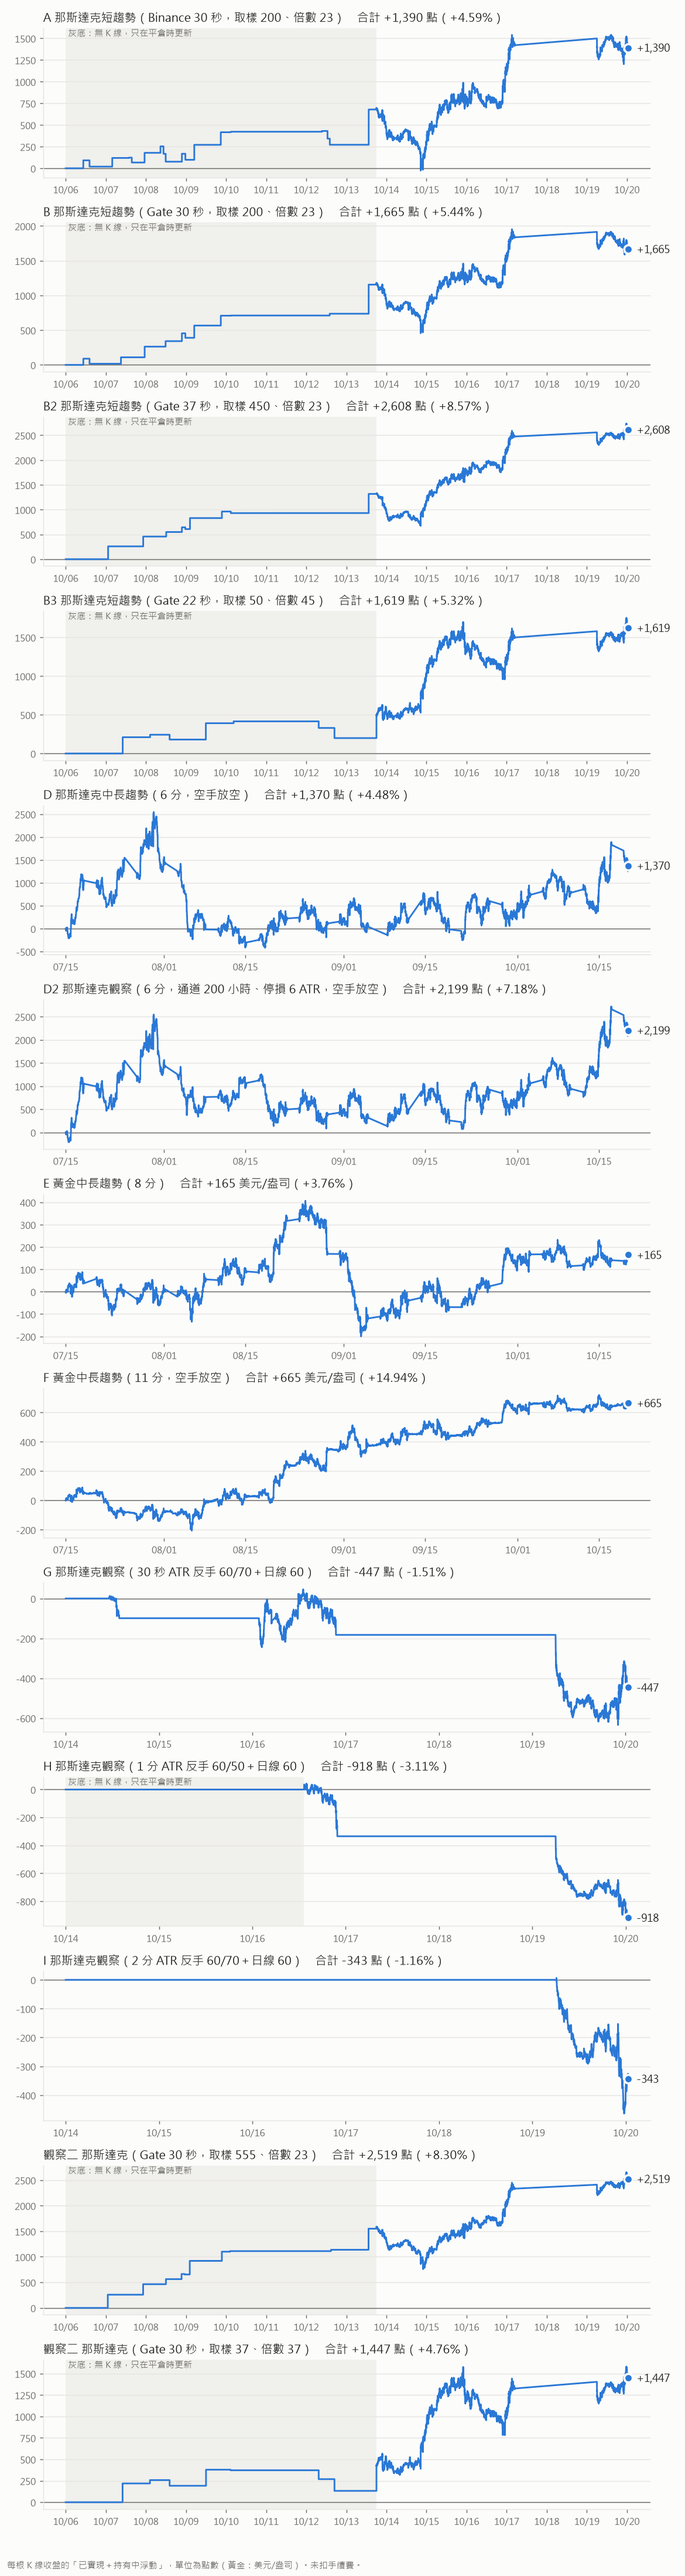
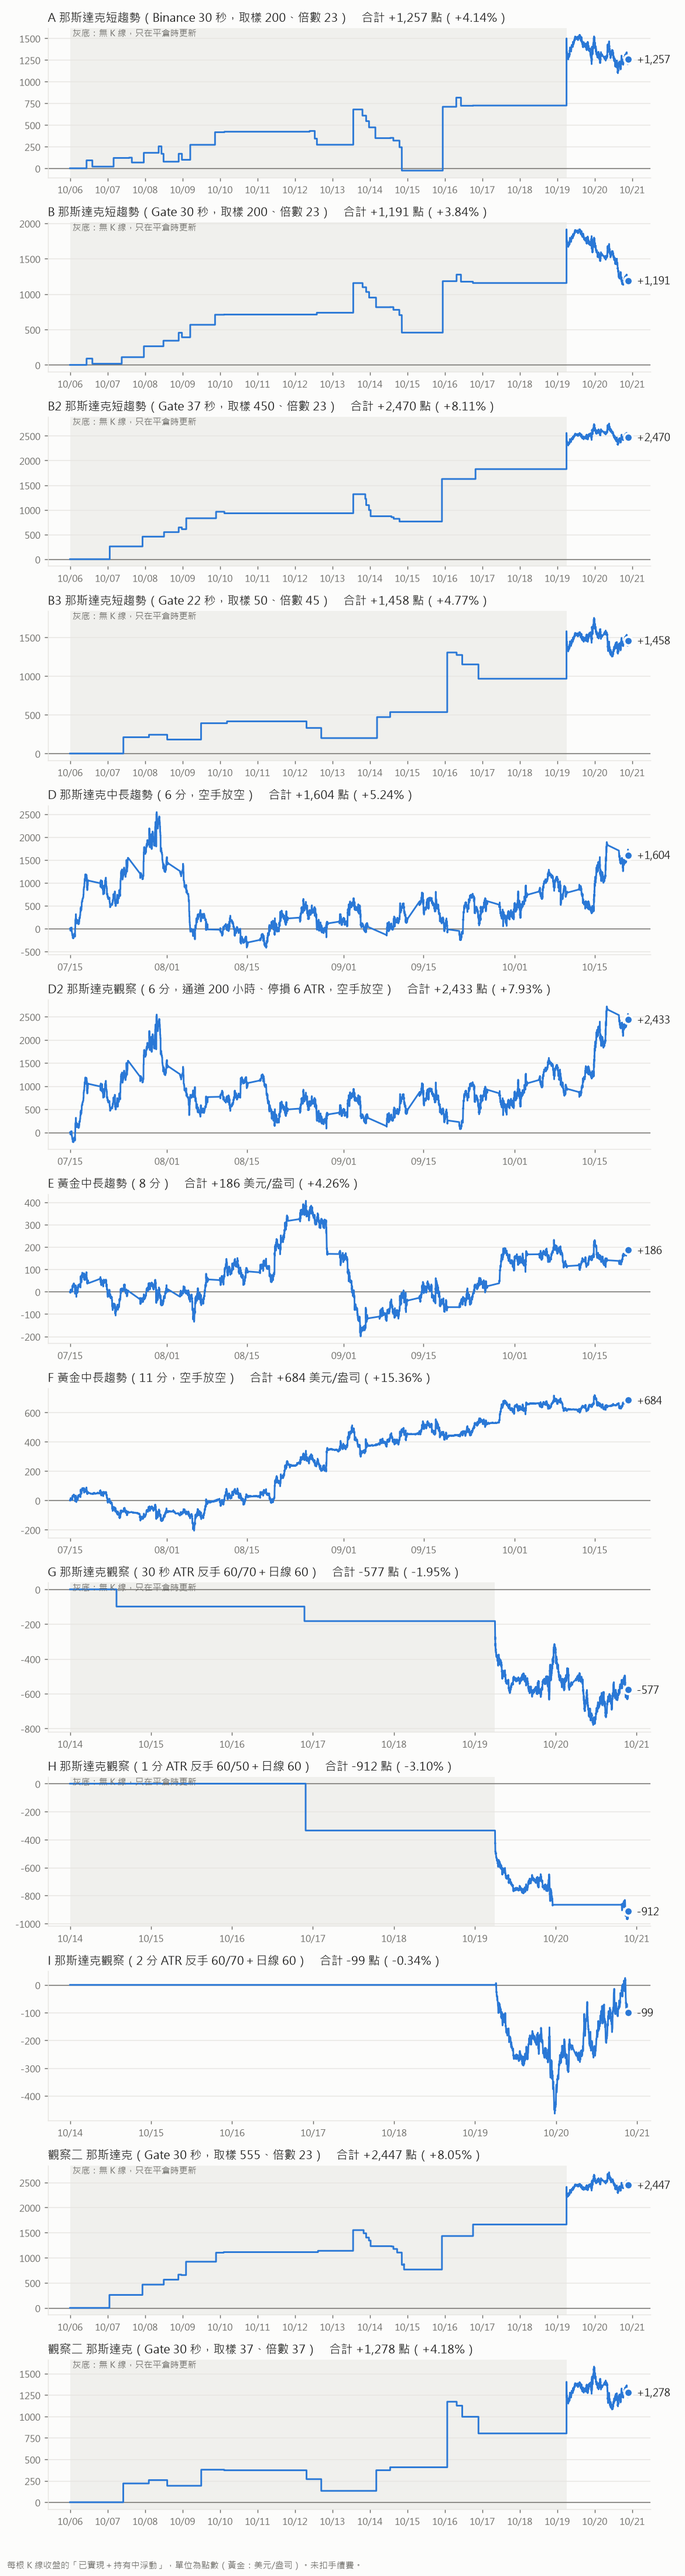
實際紀錄更新：新增 10/20 凌晨至下午共 8 筆進出紀錄，更新績效曲線、紀錄狀態與組別績效總表（新增）

diff --git a/實際紀錄/組別績效總表.html b/實際紀錄/組別績效總表.html
@@ -1,0 +1,120 @@
+<!doctype html>
+<html lang="zh-Hant">
+<head>
+<meta charset="utf-8">
+<meta name="viewport" content="width=device-width, initial-scale=1">
+<title>組別績效總表</title>
+<style>
+  :root { --fg:#111; --muted:#555; --line:#bbb; --bg:#fff; --pass:#e8f5e9; --fail:#fdecea; }
+  @media (prefers-color-scheme: dark) {
+    :root:not([data-theme="light"]) { --fg:#eee; --muted:#aaa; --line:#555; --bg:#161616; --pass:#1d3a24; --fail:#3d2020; }
+  }
+  :root[data-theme="dark"] { --fg:#eee; --muted:#aaa; --line:#555; --bg:#161616; --pass:#1d3a24; --fail:#3d2020; }
+  body { background: var(--bg); color: var(--fg); font-family: "Microsoft JhengHei", sans-serif; margin: 16px; line-height: 1.5; }
+  h1 { font-size: 20px; margin: 0 0 4px; }
+  h2 { font-size: 16px; margin: 20px 0 6px; }
+  .meta { color: var(--muted); font-size: 13px; margin-bottom: 12px; }
+  .wrap { overflow-x: auto; }
+  table { border-collapse: collapse; width: 100%; font-size: 13px; }
+  th, td { border: 1px solid var(--line); padding: 4px 6px; text-align: left; vertical-align: top; }
+  th { background: rgba(127,127,127,.15); white-space: nowrap; }
+  td.num { text-align: right; white-space: nowrap; }
+  tr.pass { background: var(--pass); }
+  tr.fail { background: var(--fail); }
+  .note { font-size: 13px; color: var(--muted); }
+  ol li { margin-bottom: 4px; }
+</style>
+</head>
+<body>
+
+<h1>組別績效總表</h1>
+<div class="meta">
+  資料時間：2026/10/20 21:16 前後（讀取自期貨趨勢頁「交易明細」，該頁開著會自動更新，數字會隨時間變動）<br>
+  實際紀錄程式：本次執行結束（結束代碼 0），進出紀錄檔沒有新增列，舊列未改動。
+</div>
+
+<h2>一、績效表（台幣組依合計排名，黃金只在黃金內排名）</h2>
+<div class="wrap">
+<table>
+  <thead>
+    <tr>
+      <th>組別</th>
+      <th>已平倉（賺／賠）</th>
+      <th>合計（已實現）</th>
+      <th>獲利因子</th>
+      <th>勝率</th>
+      <th>獲利名次</th>
+      <th>篩選名次</th>
+      <th>未通過原因／備註</th>
+    </tr>
+  </thead>
+  <tbody>
+    <tr class="pass"><td>那斯達克・B2（37 秒）</td><td class="num">23（13／10）</td><td class="num">+154,377 台幣</td><td class="num">4.529</td><td class="num">56.5%</td><td class="num">1</td><td class="num">1</td><td>通過</td></tr>
+    <tr class="pass"><td>那斯達克・觀察二 555/23</td><td class="num">25（14／11）</td><td class="num">+145,705 台幣</td><td class="num">3.574</td><td class="num">56.0%</td><td class="num">2</td><td class="num">2</td><td>通過（表格列數 24，見註 1）</td></tr>
+    <tr class="pass"><td>台指・觀察二 台指</td><td class="num">23（11／12）</td><td class="num">+26,851 台幣</td><td class="num">2.638</td><td class="num">47.8%</td><td class="num">9</td><td class="num">3</td><td>通過</td></tr>
+    <tr class="pass"><td>那斯達克・B（30 秒）</td><td class="num">33（16／17）</td><td class="num">+72,240 台幣</td><td class="num">2.385</td><td class="num">48.5%</td><td class="num">6</td><td class="num">4</td><td>通過（表格列數 28，見註 1）</td></tr>
+    <tr class="pass"><td>那斯達克・A（30 秒）</td><td class="num">37（19／18）</td><td class="num">+78,474 台幣</td><td class="num">1.851</td><td class="num">51.4%</td><td class="num">5</td><td class="num">5</td><td>通過（表格列數 34，見註 1）</td></tr>
+    <tr class="pass"><td>台指・A/B</td><td class="num">27（12／15）</td><td class="num">+13,431 台幣</td><td class="num">1.504</td><td class="num">44.4%</td><td class="num">10</td><td class="num">6</td><td>通過（獲利因子僅略高於 1.5，門檻邊緣）</td></tr>
+    <tr><td>那斯達克・觀察二 37/37</td><td class="num">15（8／7）</td><td class="num">+91,586 台幣</td><td class="num">2.626</td><td class="num">53.3%</td><td class="num">3</td><td class="num">—</td><td>未通過：已平倉 15 筆，未達 20 筆</td></tr>
+    <tr><td>那斯達克・B3（22 秒）</td><td class="num">15（9／6）</td><td class="num">+88,822 台幣</td><td class="num">3.070</td><td class="num">60.0%</td><td class="num">4</td><td class="num">—</td><td>未通過：已平倉 15 筆，未達 20 筆</td></tr>
+    <tr><td>那斯達克・D2（6 分，通道 200 小時）</td><td class="num">4（3／1）</td><td class="num">+65,867 台幣</td><td class="num">4.191</td><td class="num">75.0%</td><td class="num">7</td><td class="num">—</td><td>未通過：已平倉 4 筆，未達 20 筆</td></tr>
+    <tr><td>那斯達克・D（6 分）</td><td class="num">4（2／2）</td><td class="num">+28,469 台幣</td><td class="num">2.033</td><td class="num">50.0%</td><td class="num">8</td><td class="num">—</td><td>未通過：已平倉 4 筆，未達 20 筆</td></tr>
+    <tr><td>台指・B2</td><td class="num">23（9／14）</td><td class="num">+11,441 台幣</td><td class="num">1.437</td><td class="num">39.1%</td><td class="num">11</td><td class="num">—</td><td>未通過：獲利因子 1.437，未達 1.5</td></tr>
+    <tr><td>台指・B3</td><td class="num">12（5／7）</td><td class="num">+9,429 台幣</td><td class="num">1.476</td><td class="num">41.7%</td><td class="num">12</td><td class="num">—</td><td>未通過：已平倉 12 筆，未達 20 筆；獲利因子 1.476，未達 1.5</td></tr>
+    <tr><td>那斯達克・I（2 分）</td><td class="num">0（0／0）</td><td class="num">0 台幣</td><td class="num">—</td><td class="num">—</td><td class="num">13</td><td class="num">—</td><td>未通過：尚無已平倉紀錄</td></tr>
+    <tr><td>恆生・觀察二 恆生</td><td class="num">0（0／0）</td><td class="num">0 台幣</td><td class="num">—</td><td class="num">—</td><td class="num">14</td><td class="num">—</td><td>未通過：尚無已平倉紀錄，資料仍在累積（見註 3）</td></tr>
+    <tr><td>那斯達克・G（30 秒，Gate）</td><td class="num">4（0／4）</td><td class="num">−42,290 台幣</td><td class="num">0.000</td><td class="num">0.0%</td><td class="num">15</td><td class="num">—</td><td>未通過：已平倉 4 筆，未達 20 筆；合計為負</td></tr>
+    <tr><td>那斯達克・H（1 分）</td><td class="num">3（0／3）</td><td class="num">−60,142 台幣</td><td class="num">0.000</td><td class="num">0.0%</td><td class="num">16</td><td class="num">—</td><td>未通過：已平倉 3 筆，未達 20 筆；合計為負</td></tr>
+  </tbody>
+</table>
+</div>
+
+<h2>二、黃金組（美元計，只在黃金內排名）</h2>
+<div class="wrap">
+<table>
+  <thead>
+    <tr>
+      <th>組別</th>
+      <th>已平倉（賺／賠）</th>
+      <th>合計（已實現）</th>
+      <th>獲利因子</th>
+      <th>勝率</th>
+      <th>獲利名次</th>
+      <th>篩選名次</th>
+      <th>未通過原因／備註</th>
+    </tr>
+  </thead>
+  <tbody>
+    <tr><td>黃金・F（11 分，空手放空）</td><td class="num">4（1／3）</td><td class="num">+230 美元</td><td class="num">2.217</td><td class="num">25.0%</td><td class="num">1</td><td class="num">—</td><td>未通過：已平倉 4 筆，未達 20 筆</td></tr>
+    <tr><td>黃金・E（8 分）</td><td class="num">2（1／1）</td><td class="num">+11 美元</td><td class="num">1.104</td><td class="num">50.0%</td><td class="num">2</td><td class="num">—</td><td>未通過：已平倉 2 筆，未達 20 筆；獲利因子未達 1.5</td></tr>
+  </tbody>
+</table>
+</div>
+
+<h2>三、篩選結果</h2>
+<p class="note">條件：已平倉至少 20 筆、獲利因子至少 1.5、合計為正。通過者依獲利因子由高到低排名。</p>
+<ol>
+  <li>那斯達克・B2（37 秒）：獲利因子 4.529，已平倉 23 筆，合計 +154,377 台幣</li>
+  <li>那斯達克・觀察二 555/23：獲利因子 3.574，已平倉 25 筆，合計 +145,705 台幣</li>
+  <li>台指・觀察二 台指：獲利因子 2.638，已平倉 23 筆，合計 +26,851 台幣</li>
+  <li>那斯達克・B（30 秒）：獲利因子 2.385，已平倉 33 筆，合計 +72,240 台幣</li>
+  <li>那斯達克・A（30 秒）：獲利因子 1.851，已平倉 37 筆，合計 +78,474 台幣</li>
+  <li>台指・A/B：獲利因子 1.504，已平倉 27 筆，合計 +13,431 台幣（僅略高於門檻）</li>
+</ol>
+<p class="note">未通過 12 組（見表格「未通過原因」欄）：其中 B3、觀察二 37/37、D、D2、E、F、G、H、I 因已平倉筆數不足 20 筆；台指 B2、台指 B3 獲利因子低於 1.5；G、H 合計為負；I 與觀察二恆生尚無已平倉紀錄。</p>
+
+<h2>註</h2>
+<ol class="note">
+  <li><b>表格與摘要筆數對不上：</b>頁面摘要的已平倉筆數，與逐筆明細表的列數有差距：那斯達克 A（摘要 37 筆、表格 34 列）、B（33 對 28）、B2（23 對 20）、B3（15 對 14）、觀察二 555/23（25 對 24）、觀察二 37/37（15 對 14）、G（4 對 3）、H（3 對 2）。筆數與合計以摘要為準；獲利因子只能用表格列計算，所以這些組別的獲利因子是以較少的列算出來的，數字可能偏離。這是頁面本身的問題，需要回頭查頁面的計算或明細顯示。</li>
+  <li><b>台指組資料有缺口：</b>台指 A/B、台指 B2、台指 B3、觀察二 台指 的資料依待辦紀錄有缺口，這次沒有逐筆核對缺口位置，數字照頁面讀到的為準。</li>
+  <li><b>恆生資料還在累積：</b>觀察二 恆生 目前尚無已平倉紀錄，無法計算獲利因子與勝率。</li>
+  <li><b>黃金以美元計：</b>E、F 的盈虧以美元列出，獲利因子是比值，與換算台幣後相同。</li>
+  <li><b>合計為已實現：</b>合計欄取頁面的「已實現」數字，不含持有中的浮動盈虧。</li>
+  <li><b>與更新紀錄程式的輸出不同：</b>這次頁面讀到的數字與本次更新紀錄程式先前印出的數字不完全相同（例如觀察二 555/23 程式印出 27 筆、頁面為 25 筆），以頁面當下數字為準。</li>
+  <li><b>D、D2、E、F 的已平倉筆數都很少</b>（2 至 4 筆），目前結論不具統計意義。</li>
+</ol>
+
+<p class="note">本表只做績效整理與篩選，不構成任何投資建議。</p>
+
+</body>
+</html>
